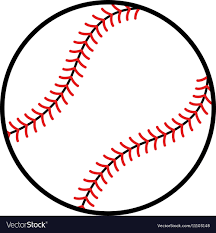
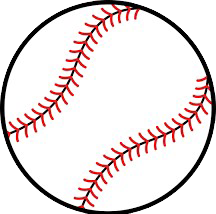
Add files via upload

Changed region(s): [[0.0, 0.0, 1.0, 1.0], [0.5, 0.6168, 0.5278, 0.6449]]

diff --git a/part2.html b/part2.html
@@ -9,9 +9,9 @@
 
 	<body>
 			<!-- FIRST SLOT -->
-			<div class="row center-content">
+			<div class="row gray center-content">
 				<div class="out center-content">
-					<img src="images/baseball.jpg" class="button make-small" id="ball1b" onclick="checkPosition(this)"/>
+					<img src="images/baseball.png" class="button make-small" id="ball1b" onclick="checkPosition(this)"/>
 				</div>
 					<div class="room">
 					<div class="red block center-content">
@@ -24,14 +24,14 @@
 						<img src="images/s/scherzer.png" class="button restrict-img-size" onclick="checkPosition(this)"/>
 					</div>
 				</div>
-				<div class="out center-content">
-					<img src="images/baseball.jpg" class="button make-small" id="ball2b" onclick="checkPosition(this)"/>
+				<div class="out gray center-content">
+					<img src="images/baseball.png" class="button make-small" id="ball2b" onclick="checkPosition(this)"/>
 				</div>
 			</div>
 			<!-- SECOND SLOT -->
 			<div class="row center-content">
-				<div class="out center-content">
-					<img src="images/mlb.png" class="button restrict-img-size" id="mlb1" onclick="changeOne(this)"/>
+				<div class="out gray center-content">
+					<img src="images/mlb.png" class="button restrict-img-size" id="mlb1" onclick="sHintReveal()"/>
 				</div>
 				<div class="room">
 					<div class="blue block center-content">
@@ -41,17 +41,17 @@
 						<img src="images/s/sandoval.png" class="button restrict-img-size" onclick="checkPosition(this)"/>
 					</div>
 					<div class="blue block center-content">
-						<img src="images/s/pujols.png" class="button restrict-img-size" onclick="checkPosition(this)"/>
+						<img src="images/s/pujols.png" class="button restrict-img-size" id="pujols" onclick="sWinner(this)"/>
 					</div>
 				</div>
-				<div class="out center-content">
-					<img src="images/mlb.png" class="button restrict-img-size" id="mlb2" onclick="changeTwo(this)"/>
+				<div class="out gray center-content">
+					<img src="images/mlb.png" class="button restrict-img-size" id="mlb2" onclick="sHintReveal()"/>
 				</div>
 			</div>
 			<!-- THIRD SLOT -->
 			<div class="row center-content">
-				<div class="out center-content">
-					<img src="images/baseball.jpg" class="button make-small" id="ball3b" onclick="checkPosition(this)"/>
+				<div class="out gray center-content">
+					<img src="images/baseball.png" class="button make-small" id="ball3b" onclick="checkPosition(this)"/>
 				</div>
 				<div class="room">
 					<div class="red block center-content">
@@ -64,8 +64,8 @@
 						<img src="images/s/syndergaard.png" class="button restrict-img-size" onclick="checkPosition(this)"/>
 					</div>
 				</div>
-				<div class="out center-content">
-					<img src="images/baseball.jpg" class="button make-small" id="ball4b" onclick="checkPosition(this)"/>
+				<div class="out gray center-content">
+					<img src="images/baseball.png" class="button make-small" id="ball4b" onclick="checkPosition(this)"/>
 				</div>
 			</div>
 		</div>		

diff --git a/script.js b/script.js
@@ -6,23 +6,54 @@ function changeTwo(el){
 	document.getElementById('mlb2').src = "images/blank.png"
 }
 
-function nextImage(el){
-	if (){
-		
-	} else if (el.id.match()){
-		el.src = "images/orange_slot.PNG";
-		// if the image is a lemon, change it to an orange!
-	} else if (el.src.match("images/orange_slot.PNG")){
-		el.src = "images/cherry_slot.PNG";
-		// if the image is an orange, change it to a cherry!
+function redHintReveal(el){
+	if (el.src.match("images/mlb.png")){
+		document.getElementById('ball1a').src = "images/blank.png"
+	} else if (el.src.match("images/mlb.png")){
+		document.getElementById('mlb2').src = "images/blank.png"
+	} else if (document.getElementById("mlb1").src.match("images/blank.png") && document.getElementById("mlb2").src.match("images/blank.png")){
+		document.getElementById('ball1b').src = "images/s/s.png"
+		document.getElementById('ball2b').src = "images/s/s.png"
+	} 
+}
+	
+function pinstripleHintReveal(el){
+	if (el.src.match("images/mlb.png")){
+		document.getElementById('mlb1').src = "images/blank.png"
+	} else if (el.src.match("images/mlb.png")){
+		document.getElementById('mlb2').src = "images/blank.png"
+	} else if (document.getElementById("mlb1").src.match("images/blank.png") && document.getElementById("mlb2").src.match("images/blank.png")){
+		document.getElementById('ball1b').src = "images/s/s.png"
+		document.getElementById('ball2b').src = "images/s/s.png"
 	}
-		// if both mlb logos are clicked, change the baseballs to the letter s!
-	document.getElementById('ball1b').src = "images/s/s.png"
-	document.getElementById('ball2b').src = "images/s/s.png"
-	document.getElementById('ball3b').src = "images/s/s.png"
-	document.getElementById('ball4b').src = "images/s/s.png"
+}	
+	
+	function digitHintReveal(el){
+	if (el.src.match("images/mlb.png")){
+		document.getElementById('mlb1').src = "images/blank.png"
+	} else if (el.src.match("images/mlb.png")){
+		document.getElementById('mlb2').src = "images/blank.png"
+	} else if (document.getElementById("mlb1").src.match("images/blank.png") && document.getElementById("mlb2").src.match("images/blank.png")){
+		document.getElementById('ball1b').src = "images/s/s.png"
+		document.getElementById('ball2b').src = "images/s/s.png"
+	} 
+}
+	
+	
+
+function sHintReveal(){
+	if (document.getElementById('mlb1').src.match("images/mlb.png")){
+		document.getElementById('mlb1').src = "images/blank.png"
+	} else if (document.getElementById('mlb2').src.match("images/mlb.png")){
+		document.getElementById('mlb2').src = "images/blank.png"
+		document.getElementById('ball1b').src = "images/s/s.png"
+		document.getElementById('ball2b').src = "images/s/s.png"
+		document.getElementById('ball3b').src = "images/s/s.png"
+		document.getElementById('ball4b').src = "images/s/s.png"
 	} 
 	else {
 		// do nothing
 	}
 }
+
+

diff --git a/index.html b/index.html
@@ -11,7 +11,7 @@
 			<!-- FIRST SLOT -->
 			<div class="row red center-content">
 				<div class="out white center-content">
-					<img src="images/baseball.jpg" class="button make-small" id="ball1a" onclick="checkPosition(this)"/>
+					<img src="images/baseball.png" class="button make-small" id="ball1a" onclick="checkPosition(this)"/>
 				</div>
 				<div class="room">
 					<div class="block center-content">
@@ -25,13 +25,13 @@
 					</div>
 				</div>
 				<div class="out white center-content">
-					<img src="images/baseball.jpg" class="button make-small" id="ball2a" onclick="checkPosition(this)"/>
+					<img src="images/baseball.png" class="button make-small" id="ball2a" onclick="checkPosition(this)"/>
 				</div>
 			</div>
 			<!-- SECOND SLOT -->
 			<div class="row pinstripe center-content">
 				<div class="out white center-content">
-					<img src="images/baseball.jpg" class="button make-small" id="ball3a" onclick="checkPosition(this)"/>
+					<img src="images/baseball.png" class="button make-small" id="ball3a" onclick="checkPosition(this)"/>
 				</div>
 				<div class="room">
 					<div class="block center-content">
@@ -45,13 +45,13 @@
 					</div>
 				</div>
 				<div class="out white center-content">
-					<img src="images/baseball.jpg" class="button make-small" id="ball4a" onclick="checkPosition(this)"/>
+					<img src="images/baseball.png" class="button make-small" id="ball4a" onclick="checkPosition(this)"/>
 				</div>
 			</div>
 			<!-- THIRD SLOT -->
 			<div class="row blue center-content">
 				<div class="out white center-content">
-					<img src="images/baseball.jpg" class="button make-small" id="ball5a" onclick="checkPosition(this)"/>
+					<img src="images/baseball.png" class="button make-small" id="ball5a" onclick="checkPosition(this)"/>
 				</div>
 				<div class="room">
 					<div class="block center-content">
@@ -65,7 +65,7 @@
 					</div>
 				</div>
 				<div class="out white center-content">
-					<img src="images/baseball.jpg" class="button make-small" id="ball6a" onclick="checkPosition(this)"/>
+					<img src="images/baseball.png" class="button make-small" id="ball6a" onclick="checkPosition(this)"/>
 				</div>
 			</div>
 		</div>		

diff --git a/style.css b/style.css
@@ -24,8 +24,8 @@ h1 {
 }
 
 .make-small {
-	max-height: 25%;
-	max-width: 25%;
+	max-height: 50%;
+	max-width: 50%;
 }
 
 .room {
